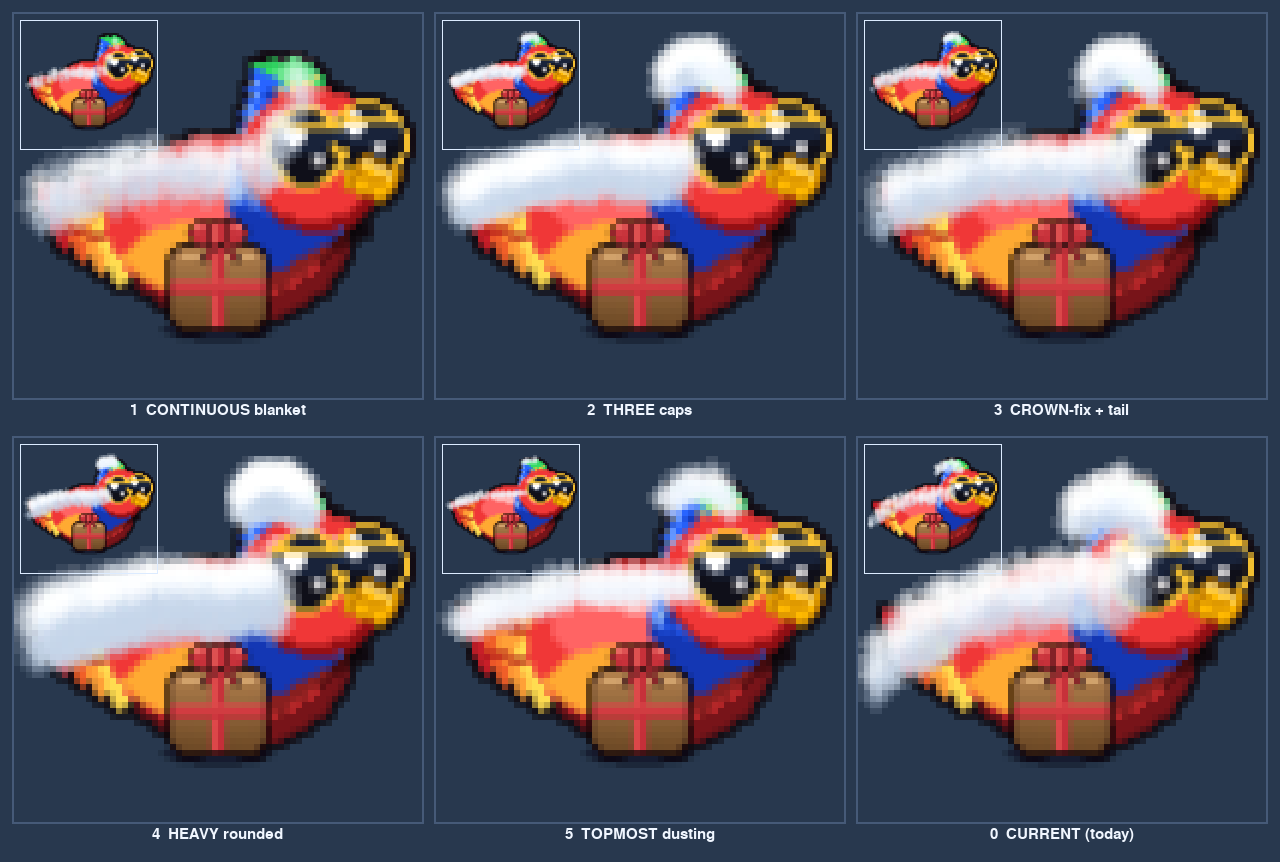
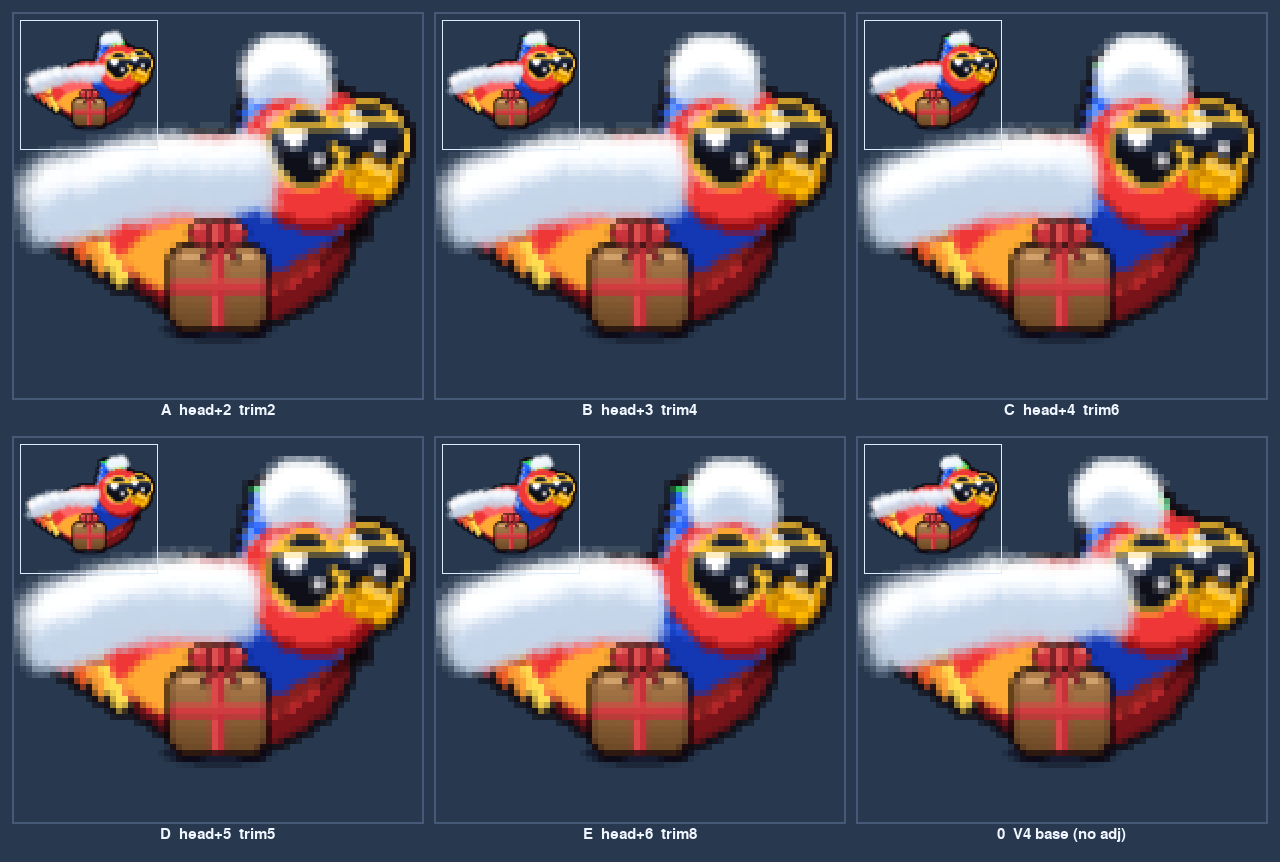
design: V4 snow placement tweaks — head-right + back-trim (5 options)
User picked V4 (heaviest) but the head cap needs to move a few px
right and the back drift's right (head-ward) end is too long.
Reworked the design tool to render 5 V4 variants parameterised by
(head_dx px right, back_trim px off the right end):
  A head+2 trim2,  B head+3 trim4,  C head+4 trim6,
  D head+5 trim5,  E head+6 trim8;  panel 0 = V4 base (no adj).
Still tooling-only — no game change until a letter is chosen.
Tests: 22/22.

diff --git a/tools/render_snow_placements.py b/tools/render_snow_placements.py
@@ -145,76 +145,33 @@ def _sort(pool):
     return pool
 
 
-# ── 5 variants ───────────────────────────────────────────────────────────────
+# ── V4 (HEAVY) with placement tweaks ─────────────────────────────────────────
+# Base = V4 (most snow). Each version shifts the HEAD cap a few px
+# RIGHT (head_dx) and TRIMS the back drift's right end a few px
+# (back_trim) so the lower mass doesn't run so far toward the head.
 
-def v1_continuous():
-    """One unbroken blanket: tail tip → back → up the nape → crown."""
+def v4_adjusted(head_dx, back_trim):
     p = []
-    band(p, TAIL_TO_CROWN, -29.5, 15.5, -26.0, 9.0,
-         along=lambda x: (max(0.45, 1.0 - (-27.0 - x) / 5.0) if x < -27 else
-                          (max(0.7, 1.0 - (x - 12.0) / 5.0) if x > 12 else 1.0)),
-         dy_cull=-1.0, dy_full=3.0, dy_end=7.5, wmul=0.95, M=240)
-    return _sort(p)
-
-
-def v2_three_caps():
-    """Distinct tail cap + back drift + crown cap, gaps between."""
-    p = []
-    # tail cap
-    band(p, TAIL_BACK, -29.5, -15.0, -8.0, 5.0,
-         along=lambda x: max(0.5, 1.0 - (-28.0 - x) / 5.0) if x < -28 else 1.0,
-         dy_cull=-1.0, dy_full=2.5, dy_end=6.0, wmul=0.9, M=90, seed=10)
-    # back drift
-    band(p, TAIL_BACK, -15.0, 9.0, -10.0, 5.0,
-         along=lambda x: max(0.4, 1.0 - (x - 6.0) / 5.0) if x > 6 else 1.0,
-         dy_cull=-1.0, dy_full=3.0, dy_end=7.0, wmul=0.95, M=130, seed=300)
-    # crown cap
-    crown(p, wmul=0.88, M=85)
-    return _sort(p)
-
-
-def v3_crownfix_taildroop():
-    """Today's back drift, but head moved onto the crown + the back
-    line drooped along the tail so the tail is covered."""
-    p = []
-    band(p, TAIL_BACK, -29.5, 13.0, -10.0, 9.0,
-         along=lambda x: (max(0.55, 1.0 - (-28.0 - x) / 4.0) if x < -28 else
-                          (max(0.35, 1.0 - (x - 9.0) / 6.0) if x > 9 else 1.0)),
-         dy_cull=-1.0, dy_full=3.0, dy_end=7.5, wmul=0.95, M=200)
-    crown(p, wmul=0.82, M=80)
-    return _sort(p)
-
-
-def v4_heavy():
-    """Fuller, rounder, more snow everywhere (still off the face)."""
-    p = []
-    band(p, TAIL_BACK, -29.5, 11.0, -11.0, 11.0,
-         along=lambda x: (max(0.6, 1.0 - (-29.0 - x) / 4.0) if x < -29 else
-                          (max(0.4, 1.0 - (x - 8.0) / 6.0) if x > 8 else 1.0)),
+    bx_hi = 11.0 - back_trim                 # trim the right (head-ward) end
+    t0 = bx_hi - 3.0                         # where the right taper begins
+    band(p, TAIL_BACK, -29.5, bx_hi, -11.0, 11.0,
+         along=lambda x, t0=t0: (
+             max(0.6, 1.0 - (-29.0 - x) / 4.0) if x < -29 else
+             (max(0.4, 1.0 - (x - t0) / 4.0) if x > t0 else 1.0)),
          dy_cull=-1.5, dy_full=4.0, dy_end=10.0, wmul=1.2, M=300)
-    crown(p, wmul=1.0, M=110, dy_cull=-1.5, dy_full=2.5, dy_end=6.0)
+    crown(p, cx=10.0 + head_dx, x_lo=4.0 + head_dx, x_hi=16.0 + head_dx,
+          wmul=1.0, M=110, dy_cull=-1.5, dy_full=2.5, dy_end=6.0)
     return _sort(p)
 
 
-def v5_dusting():
-    """Light, crisp — snow only on the topmost ridges (crown peak,
-    back ridge, tail-tip top)."""
-    p = []
-    band(p, TAIL_BACK, -29.5, 9.0, -9.0, 2.5,
-         along=lambda x: (max(0.5, 1.0 - (-28.0 - x) / 5.0) if x < -28 else
-                          (max(0.35, 1.0 - (x - 6.0) / 5.0) if x > 6 else 1.0)),
-         dy_cull=-0.5, dy_full=1.5, dy_end=3.5, wmul=0.68, M=150)
-    crown(p, wmul=0.6, M=70, dy_cull=-0.5, dy_full=1.2, dy_end=3.0)
-    return _sort(p)
-
-
+# (head_dx px right, back_trim px off the right end)
 VARIANTS = [
-    ("1  CONTINUOUS blanket", v1_continuous),
-    ("2  THREE caps",         v2_three_caps),
-    ("3  CROWN-fix + tail",   v3_crownfix_taildroop),
-    ("4  HEAVY rounded",      v4_heavy),
-    ("5  TOPMOST dusting",    v5_dusting),
-    ("0  CURRENT (today)",    None),
+    ("A  head+2  trim2", lambda: v4_adjusted(2, 2)),
+    ("B  head+3  trim4", lambda: v4_adjusted(3, 4)),
+    ("C  head+4  trim6", lambda: v4_adjusted(4, 6)),
+    ("D  head+5  trim5", lambda: v4_adjusted(5, 5)),
+    ("E  head+6  trim8", lambda: v4_adjusted(6, 8)),
+    ("0  V4 base (no adj)", lambda: v4_adjusted(0, 0)),
 ]
 
 
